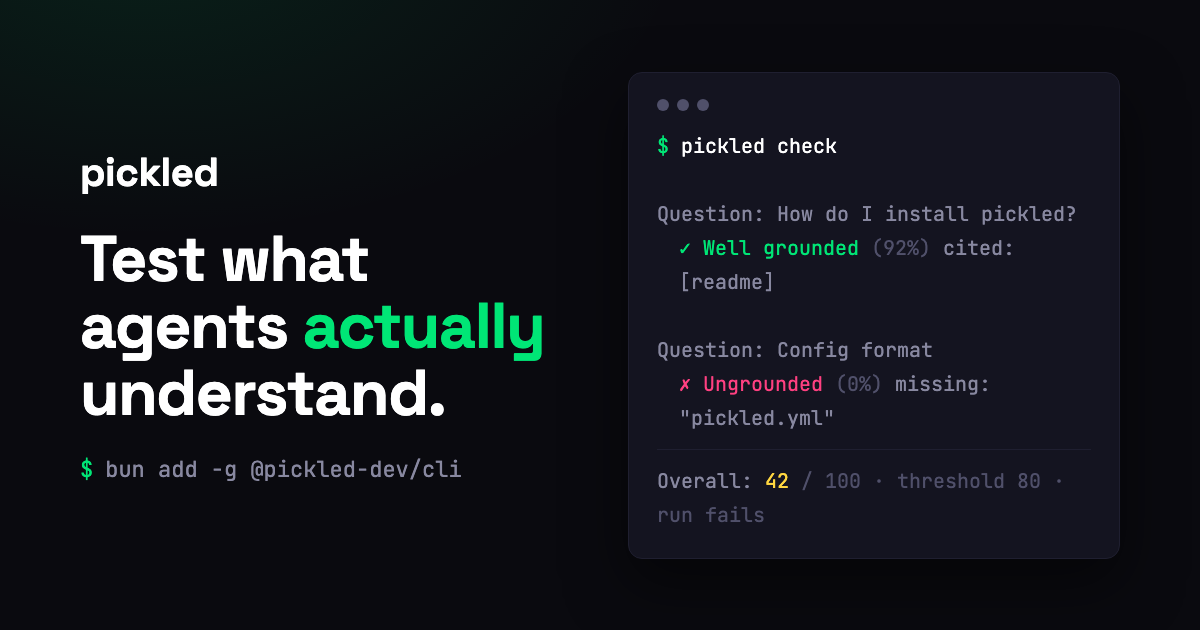
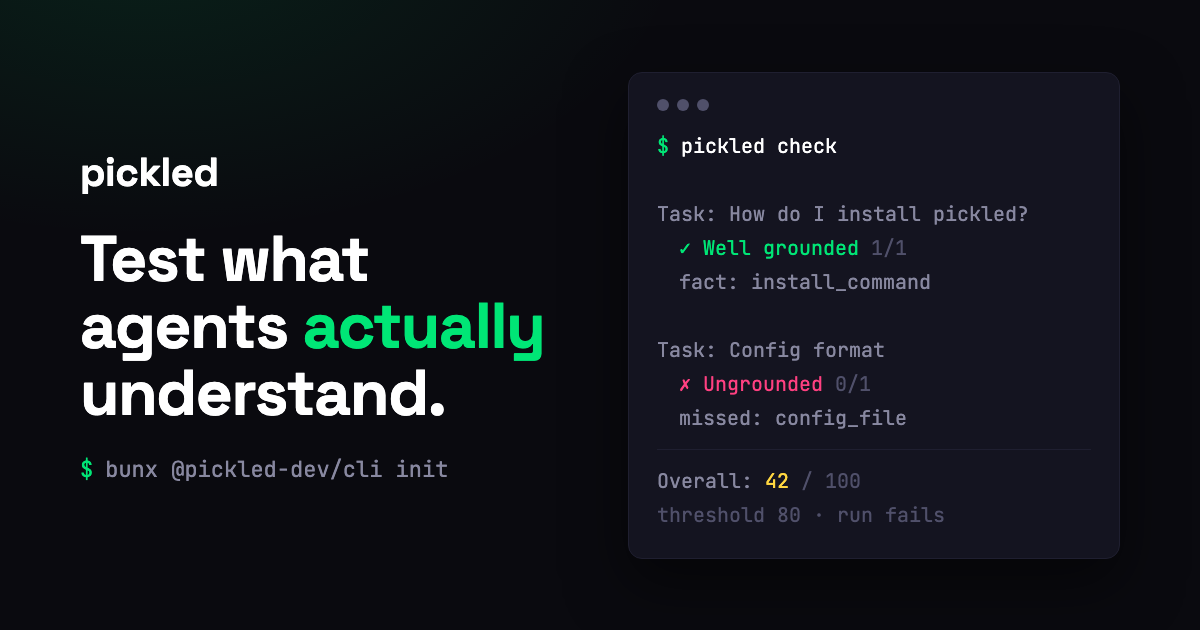
docs: align blog posts with v2 schema

diff --git a/apps/web/og-card.html b/apps/web/og-card.html
@@ -65,19 +65,22 @@
   <div class="left">
     <div class="wordmark">pickled</div>
     <h1>Test what agents <span class="accent">actually</span> understand.</h1>
-    <div class="install"><span class="prompt">$</span> bun add -g @pickled-dev/cli</div>
+    <div class="install"><span class="prompt">$</span> bunx @pickled-dev/cli init</div>
   </div>
   <div class="term">
     <div class="bar"><i></i><i></i><i></i></div>
     <div><span class="ok">$</span> pickled check</div>
     <div>&nbsp;</div>
     <div class="dim">Task: How do I install pickled?</div>
-    <div class="indent"><span class="ok">✓ Well grounded</span> <span class="muted">(92%)</span> <span class="dim">cited: [readme]</span></div>
+    <div class="indent"><span class="ok">✓ Well grounded</span> <span class="muted">1/1</span></div>
+    <div class="indent dim">fact: install_command</div>
     <div>&nbsp;</div>
     <div class="dim">Task: Config format</div>
-    <div class="indent"><span class="err">✗ Ungrounded</span> <span class="muted">(0%)</span> <span class="dim">missing: "pickled.yml"</span></div>
+    <div class="indent"><span class="err">✗ Ungrounded</span> <span class="muted">0/1</span></div>
+    <div class="indent dim">missed: config_file</div>
     <div class="rule"></div>
-    <div><span class="dim">Overall:</span> <span class="warn">42</span> <span class="muted">/ 100 · threshold 80 · run fails</span></div>
+    <div><span class="dim">Overall:</span> <span class="warn">42</span> <span class="muted">/ 100</span></div>
+    <div class="muted">threshold 80 · run fails</div>
   </div>
 </body>
 </html>

diff --git a/packages/config/tests/docs-coverage.test.ts b/packages/config/tests/docs-coverage.test.ts
@@ -21,6 +21,14 @@ const SURFACE_PATHS = [
   "../../../apps/docs/content/docs/getting-started.mdx",
   "../../../apps/docs/content/docs/github-actions.mdx",
   "../../../apps/docs/content/docs/pickled-yml.mdx",
+  "../../../apps/web/content/blog/agent-evals-in-ci.mdx",
+  "../../../apps/web/content/blog/deterministic-agent-evals.mdx",
+  "../../../apps/web/content/blog/no-tool-web-mcp-agent-answers.mdx",
+  "../../../apps/web/content/blog/testing-agent-builds-with-docs.mdx",
+  "../../../apps/web/content/blog/testing-agents-md-claude-md.mdx",
+  "../../../apps/web/content/blog/testing-llms-txt.mdx",
+  "../../../apps/web/content/blog/testing-public-product-context.mdx",
+  "../../../apps/web/og-card.html",
   "../../../apps/web/src/components/Hero.tsx",
   "../../../apps/web/src/components/Example.tsx",
   "../../../llms.txt",
